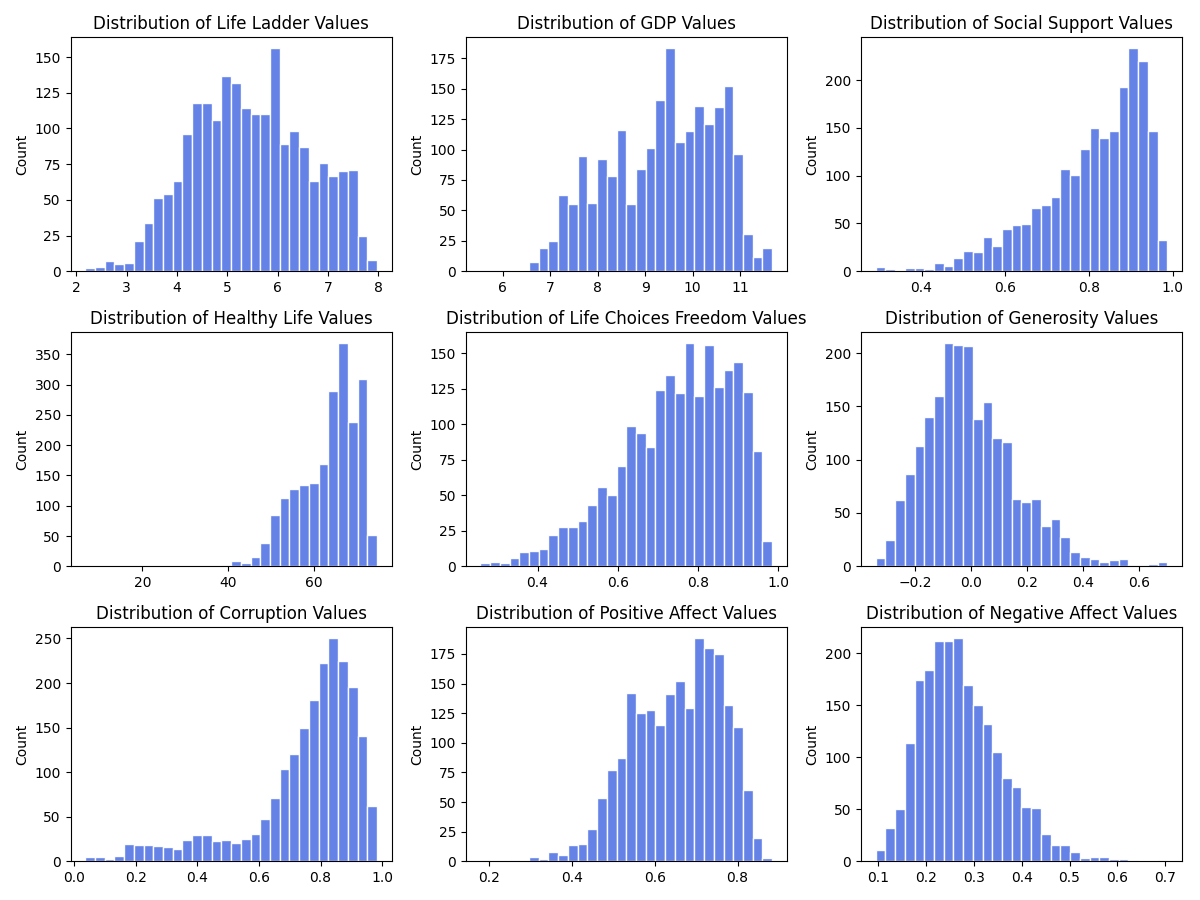
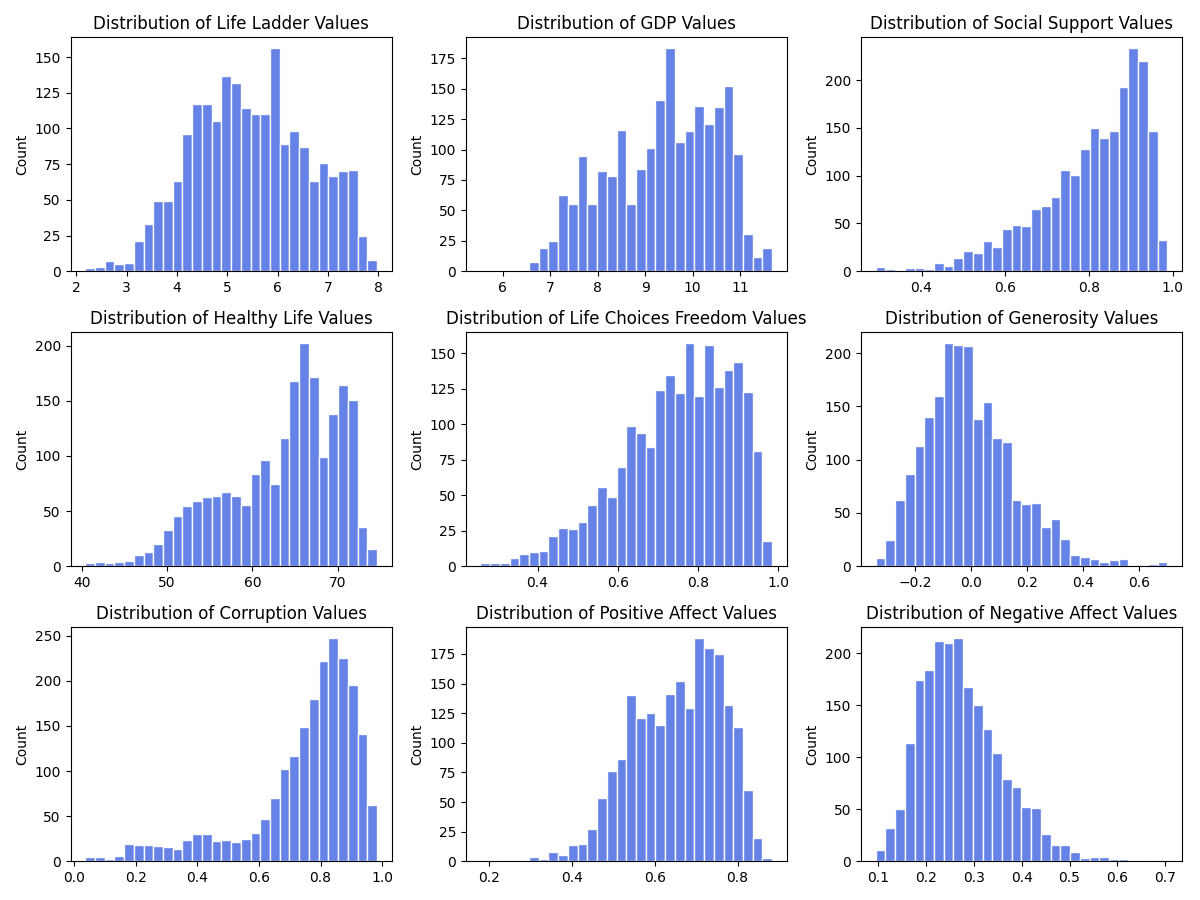
Updated.

diff --git a/assumptions_testing.py b/assumptions_testing.py
@@ -1,0 +1,146 @@
+from sklearn.metrics import mean_squared_error
+from sklearn.model_selection import train_test_split
+from sklearn.linear_model import LinearRegression
+import matplotlib.pyplot as plt
+import seaborn as sns
+import scipy.stats as stats
+from scipy.stats import shapiro, anderson
+import statsmodels.api as sm
+import numpy as np
+from scipy.stats import boxcox
+from sklearn.preprocessing import StandardScaler
+
+from statsmodels.stats.stattools import durbin_watson
+from statsmodels.stats.diagnostic import het_breuschpagan
+from statsmodels.stats.diagnostic import het_goldfeldquandt
+from statsmodels.stats.diagnostic import het_white
+from statsmodels.stats.diagnostic import acorr_ljungbox
+
+from data.data_preprocessing import data_preprocessing
+
+df = data_preprocessing()
+
+X = df[['gdp', 'social_support', 'healthy_life', 'life_choices_freedom',
+        'generosity', 'corruption', 'positive_affect', 'negative_affect']]
+y = df['life_ladder']
+
+X_train, X_test, y_train, y_test = train_test_split(X, y, test_size=0.2, random_state=42)
+
+model = LinearRegression()
+model.fit(X_train, y_train)
+
+y_pred = model.predict(X_test)
+
+residuals = y_test - y_pred
+
+# Find outliers
+threshold = 3 * np.std(residuals)
+outliers = np.where(np.abs(residuals) > threshold)[0]
+outlier_data = df.iloc[outliers]
+print('Outliers:', outlier_data)
+
+
+# Testing if errors (residuals) are independent.
+# The Durbin-Watson test is a common test for detecting the presence of autocorrelation
+# (a situation where residuals are correlated with each other). The test statistic ranges
+# from 0 to 4:
+# A value of 2 indicates no autocorrelation.
+# A value closer to 0 suggests positive autocorrelation.
+# A value closer to 4 suggests negative autocorrelation.
+dw_stat = durbin_watson(residuals)
+print(f'Durbin-Watson statistic: {dw_stat}')
+
+# Detecting autocorrelation at multiple lags. It checks whether any of a group of
+# autocorrelations of the residuals are different from zero.
+# A p-value > 0.05 suggests that there is no significant autocorrelation, implying that
+# residuals are independent.
+ljung_box_result = acorr_ljungbox(residuals, lags=[10], return_df=True)
+print(f'Ljung-Box test: {ljung_box_result}')
+
+plt.plot(residuals)
+plt.title('Testing Independence of Residuals\nResiduals Over Time')
+plt.xlabel('Observation Order')
+plt.ylabel('Residuals')
+plt.show()
+
+# An ACF plot shows the autocorrelation of residuals with themselves at different lags.
+# If residuals are independent, the autocorrelations should be close to zero for all lags.
+sm.graphics.tsa.plot_acf(residuals, lags=40)
+plt.title('Testing Independence of Residuals')
+plt.show()
+
+# Testing normality of residuals.
+
+sns.histplot(residuals, kde=True)
+plt.title('Residuals Histogram')
+plt.xlabel('Residuals')
+plt.ylabel('Frequency')
+plt.show()
+
+stats.probplot(residuals, dist="norm", plot=plt)
+plt.title('Testing Normality of Residuals\nQ-Q Plot of Residuals')
+plt.show()
+
+shapiro_test = shapiro(residuals)
+# normal if p value > 0.05
+print('Shapiro-Wilki test statistic:', shapiro_test.statistic)
+print('Shapiro-Wilki test p-value:', shapiro_test.pvalue)
+
+anderson_test = anderson(residuals)
+# normal if test statistic is below critical value
+print('Anderson-Darling test statistic:', anderson_test.statistic)
+print('Critical values:', anderson_test.critical_values)
+
+# Testing homoscedasticity.
+
+fitted_values = y_pred
+
+plt.scatter(fitted_values, residuals)
+plt.axhline(y=0, color='r', linestyle='--')
+plt.xlabel('Fitted Values')
+plt.ylabel('Residuals')
+plt.title('Testing Homoscedasticity.\nResiduals vs Fitted Values')
+plt.show()
+
+
+# homoscedastic if p-value > 0.05
+bp_test = het_breuschpagan(residuals, sm.add_constant(X_test))
+print('p-value:', bp_test[1])
+
+gq_test = het_goldfeldquandt(residuals, sm.add_constant(X_test))
+print('p-value:', gq_test[1])
+
+white_test = het_white(residuals, sm.add_constant(X_test))
+print('p-value:', white_test[1])
+
+
+# Logarithmic transformation.
+df['log_life_ladder'] = np.log(df['life_ladder'])
+
+X = df[['gdp', 'social_support', 'healthy_life', 'life_choices_freedom',
+        'generosity', 'corruption', 'positive_affect', 'negative_affect']]
+y = df['log_life_ladder']
+
+scaler = StandardScaler()
+X_scaled = scaler.fit_transform(X)
+y_transformed, _ = boxcox(y + 1)
+
+X_train, X_test, y_train, y_test = train_test_split(X_scaled, y_transformed, test_size=0.2, random_state=42)
+
+model = LinearRegression()
+model.fit(X_train, y_train)
+
+y_pred = model.predict(X_test)
+
+residuals = y_test - y_pred
+
+y_pred_original = np.exp(y_pred)
+y_test_original = np.exp(y_test)
+
+
+mse = mean_squared_error(y_test_original, y_pred_original)
+print(f"Mean Squared Error: {mse}")
+
+shapiro_test = shapiro(residuals)
+# normal if p value > 0.05
+print('Shapiro-Wilki test p-value for log data:', shapiro_test.pvalue)

diff --git a/regression_model.py b/regression_model.py
@@ -4,12 +4,30 @@ from data.data_preprocessing import data_preprocessing
 
 df = data_preprocessing()
 
-X = df[['gdp', 'social_support', 'healthy_life', 'life_choices_freedom',
-        'generosity', 'corruption', 'positive_affect', 'negative_affect']]
-y = df['life_ladder']
 
-X = sm.add_constant(X)
+def linear_regression_model():
+    X = df[['gdp', 'social_support', 'healthy_life', 'life_choices_freedom',
+            'generosity', 'corruption', 'positive_affect', 'negative_affect']]
+    y = df['life_ladder']
 
-model = sm.OLS(y, X).fit()
+    X = sm.add_constant(X)
 
-print(model.summary())
+    model = sm.OLS(y, X).fit()
+
+    print(model.summary())
+
+
+def linear_regression_model_2():
+    X = df[['gdp', 'social_support', 'healthy_life', 'life_choices_freedom',
+            'generosity', 'corruption', 'positive_affect']]
+    y = df['life_ladder']
+
+    X = sm.add_constant(X)
+
+    model = sm.OLS(y, X).fit()
+
+    print(model.summary())
+
+
+linear_regression_model()
+linear_regression_model_2()

diff --git a/data/data_preprocessing.py b/data/data_preprocessing.py
@@ -9,6 +9,7 @@ def data_preprocessing():
     source_data['year'] = pd.to_datetime(source_data['year'], format='%Y')
 
     data = source_data.dropna().copy()
+    data = data[data['Country name'] != 'Haiti']
 
     data.rename(columns={'Country name': 'country',
                          'Life Ladder': 'life_ladder',
